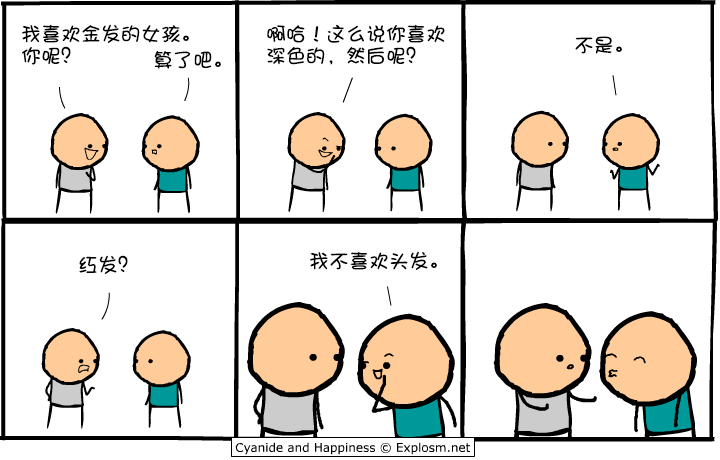
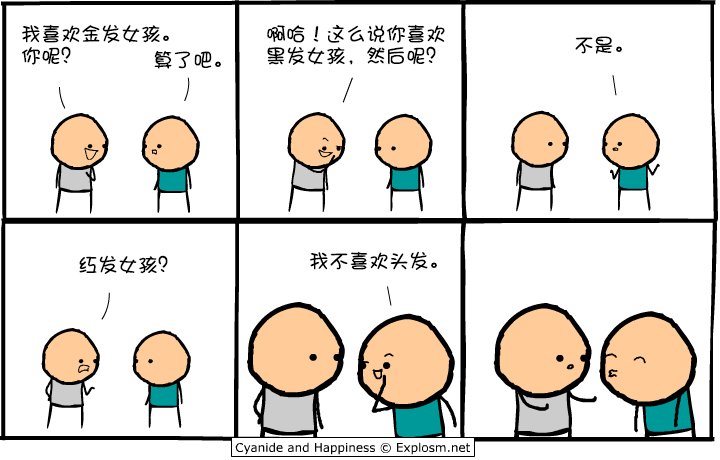
new post

Changed region(s): [[0.3667, 0.0913, 0.6111, 0.1522], [0.1528, 0.5478, 0.2444, 0.6087], [0.1528, 0.0609, 0.275, 0.0913]]

diff --git a/content/comics/3469.helloyesthisisthebottomyourbottomyouknowthatthingyoukeepjammingstuffintoifyoucallmeagainiwillbecallingtheproperauthoritiesthankyougoodbyexxx.zh-cn.md b/content/comics/3469.helloyesthisisthebottomyourbottomyouknowthatthingyoukeepjammingstuffintoifyoucallmeagainiwillbecallingtheproperauthoritiesthankyougoodbyexxx.zh-cn.md
@@ -1,0 +1,13 @@
+Title: [译][漫]Cyanide & Happiness #3469
+Date: 2014-08-11
+Tags: comics, Cyanide and Happiness, Explosm.net, 漫画, 中文翻译, 汉化
+Slug: 3469.helloyesthisisthebottomyourbottomyouknowthatthingyoukeepjammingstuffintoifyoucallmeagainiwillbecallingtheproperauthoritiesthankyougoodbyexxx.zh-cn
+
+译自：[Cyanide & Happiness #3469 - Explosm.net](http://explosm.net/comics/3469/)
+
+
+![3469.helloyesthisisthebottomyourbottomyouknowthatthingyoukeepjammingstuffintoifyoucallmeagainiwillbecallingtheproperauthoritiesthankyougoodbyexxx.zh-cn.png](/static/images/comics/3469.helloyesthisisthebottomyourbottomyouknowthatthingyoukeepjammingstuffintoifyoucallmeagainiwillbecallingtheproperauthoritiesthankyougoodbyexxx.zh-cn.png)
+
+
+
+

diff --git a/content/comics/3473.itsthehumanCENTIPEDEeveryonesfavouritecentipedehecanpoopandsingandscreaminyourbuttitstheHUMANCENTIPEDE.zh-cn.md b/content/comics/3473.itsthehumanCENTIPEDEeveryonesfavouritecentipedehecanpoopandsingandscreaminyourbuttitstheHUMANCENTIPEDE.zh-cn.md
@@ -1,0 +1,13 @@
+Title: [译][漫]Cyanide & Happiness #3473
+Date: 2014-08-11
+Tags: comics, Cyanide and Happiness, Explosm.net, 漫画, 中文翻译, 汉化
+Slug: 3473.itsthehumanCENTIPEDEeveryonesfavouritecentipedehecanpoopandsingandscreaminyourbuttitstheHUMANCENTIPEDE.zh-cn
+
+译自：[Cyanide & Happiness #3473 - Explosm.net](http://explosm.net/comics/3473/)
+
+
+![3473.itsthehumanCENTIPEDEeveryonesfavouritecentipedehecanpoopandsingandscreaminyourbuttitstheHUMANCENTIPEDE.zh-cn.png](/static/images/comics/3473.itsthehumanCENTIPEDEeveryonesfavouritecentipedehecanpoopandsingandscreaminyourbuttitstheHUMANCENTIPEDE.zh-cn.png)
+
+
+
+

diff --git a/content/comics/3472.driving2.zh-cn.md b/content/comics/3472.driving2.zh-cn.md
@@ -1,0 +1,13 @@
+Title: [译][漫]Cyanide & Happiness #3472
+Date: 2014-08-10
+Tags: comics, Cyanide and Happiness, Explosm.net, 漫画, 中文翻译, 汉化
+Slug: 3472.driving2.zh-cn
+
+译自：[Cyanide & Happiness #3472 - Explosm.net](http://explosm.net/comics/3472/)
+
+
+![3472.driving2.zh-cn.png](/static/images/comics/3472.driving2.zh-cn.png)
+
+
+
+

diff --git a/content/comics/3486.dungeon.zh-cn.md b/content/comics/3486.dungeon.zh-cn.md
@@ -1,0 +1,13 @@
+Title: [译][漫]Cyanide & Happiness #3486
+Date: 2014-08-11
+Tags: comics, Cyanide and Happiness, Explosm.net, 漫画, 中文翻译, 汉化
+Slug: 3486.dungeon.zh-cn
+
+译自：[Cyanide & Happiness #3486 - Explosm.net](http://explosm.net/comics/3486/)
+
+
+![3486.dungeon.zh-cn.png](/static/images/comics/3486.dungeon.zh-cn.png)
+
+
+
+

diff --git a/content/comics/3517.drink.zh-cn.md b/content/comics/3517.drink.zh-cn.md
@@ -1,0 +1,13 @@
+Title: [译][漫]Cyanide & Happiness #3517
+Date: 2014-08-12
+Tags: comics, Cyanide and Happiness, Explosm.net, 漫画, 中文翻译, 汉化
+Slug: 3517.drink.zh-cn
+
+译自：[Cyanide & Happiness #3517 - Explosm.net](http://explosm.net/comics/3517/)
+
+
+![3517.drink.zh-cn.png](/static/images/comics/3517.drink.zh-cn.png)
+
+
+
+
